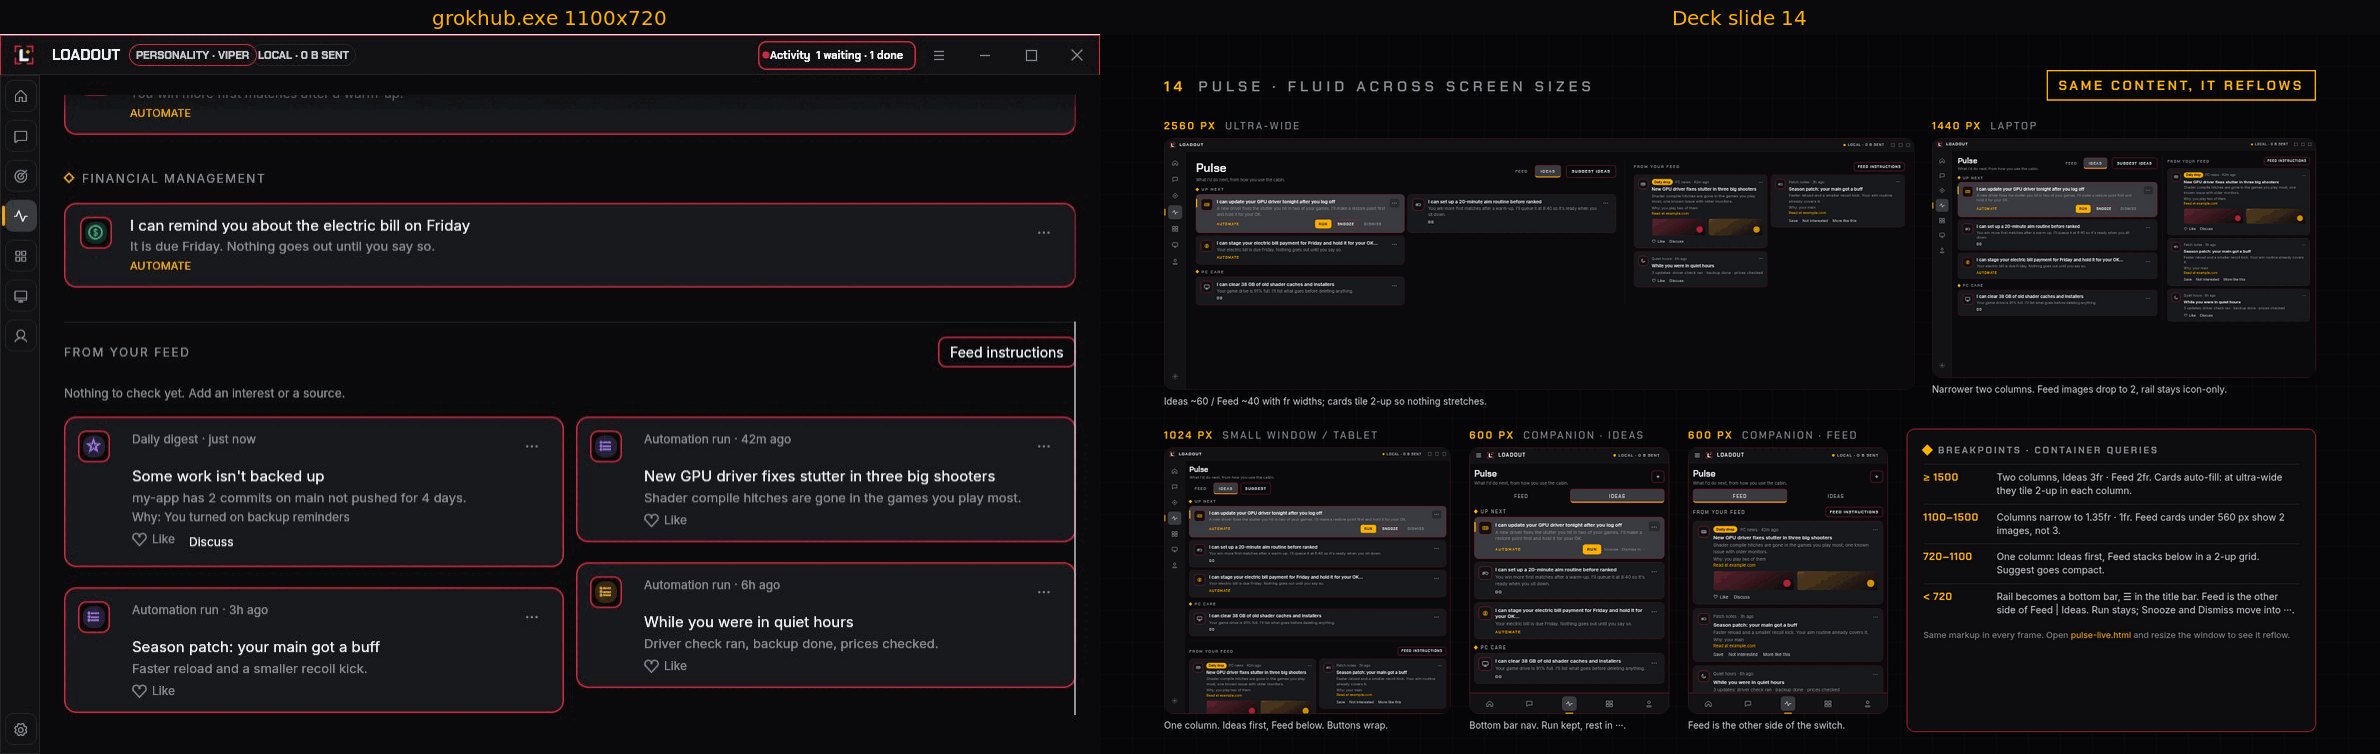
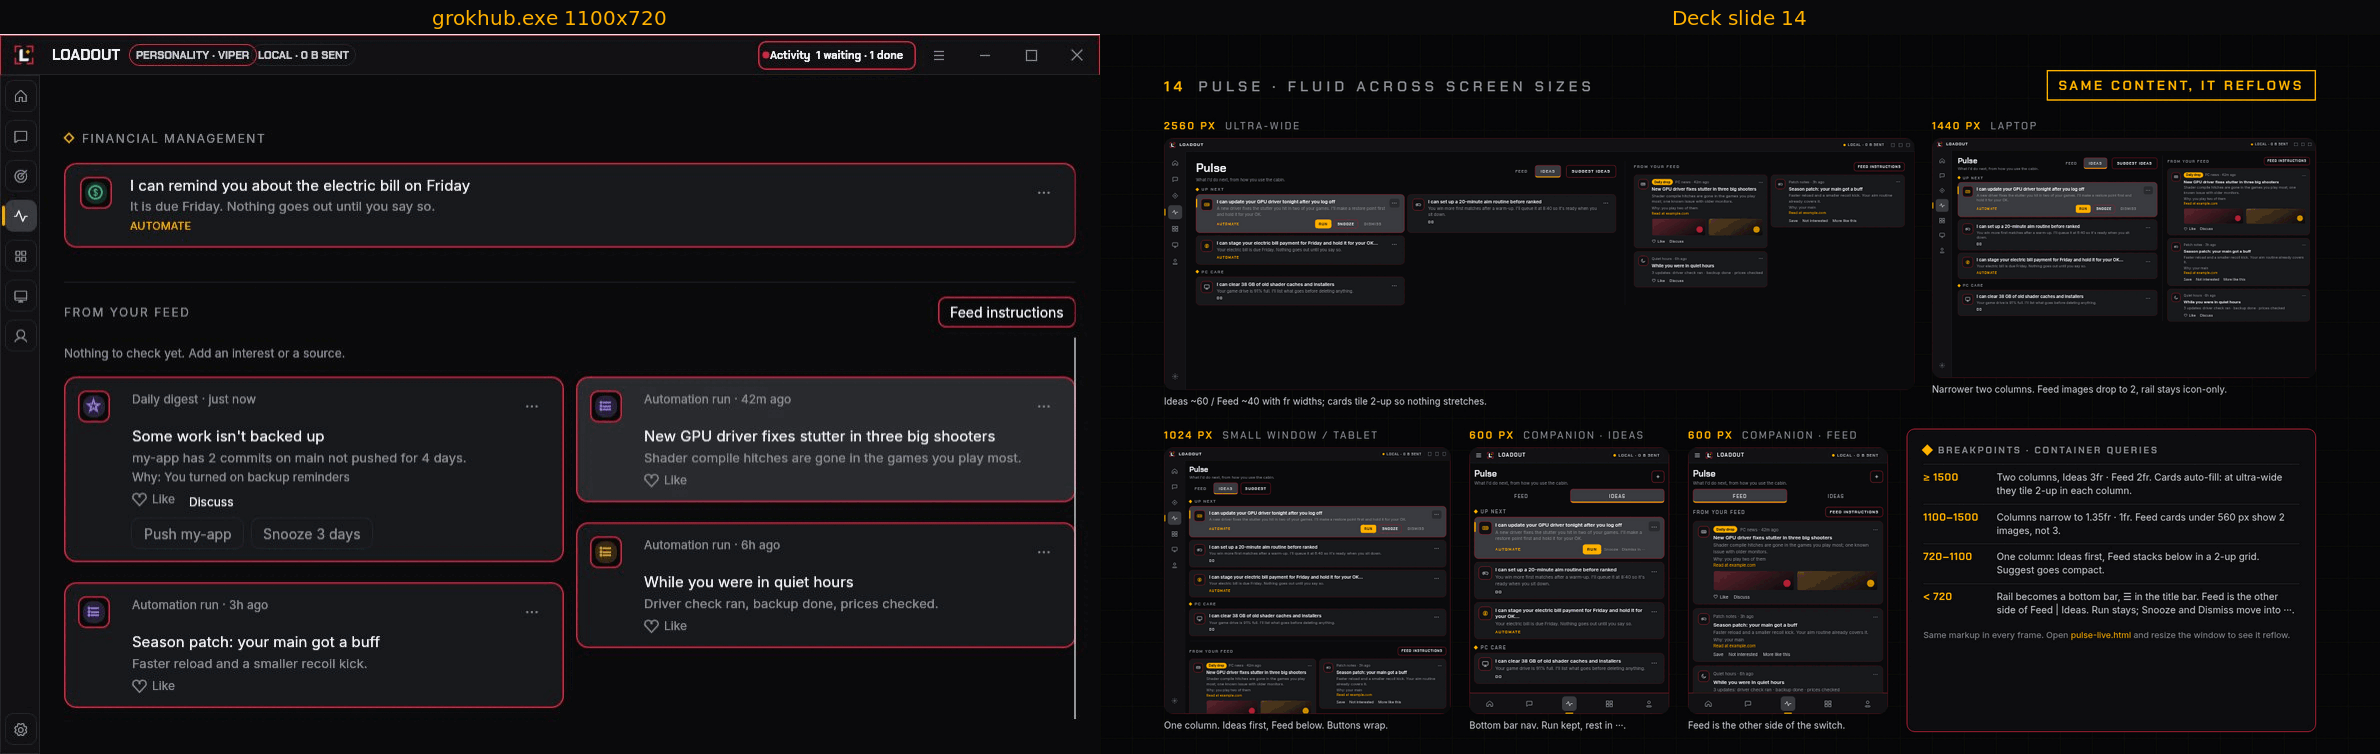
Retake the backup reminder shots beside slide 14 with its one-taps on the post
Claude-Session: https://claude.ai/code/session_019r8ALeu5iDFsVnyHgtjN5N

Changed region(s): [[0.0311, 0.122, 0.4664, 0.9456]]

diff --git a/docs/design/deck-match/README.md b/docs/design/deck-match/README.md
@@ -39,7 +39,7 @@ Side-by-side captures of the running Windows cabin (`grokhub.exe`) next to the l
 | `lastchat-home-win-1100x720-slide02.png` | 1100×720 | 02 |
 | `lastchat-chat-win-1600x900-slide02.png` | 1600×900 | 02 Chat rail restores Hangout |
 | `lastchat-chat-win-1100x720-slide02.png` | 1100×720 | 02 |
-| `backup-win-1600x900-slide14.png` | 1600×900 | 14 unpushed-work post on Pulse |
+| `backup-win-1600x900-slide14.png` | 1600×900 | 14 unpushed-work post on Pulse with its Push and Snooze one-taps |
 | `backup-win-1100x720-slide14.png` | 1100×720 | 14 the same post, scrolled to the feed |
 
 Generated by `scripts/deck-shots.ps1` on the Windows CI job (`deck-shots` artifact).
